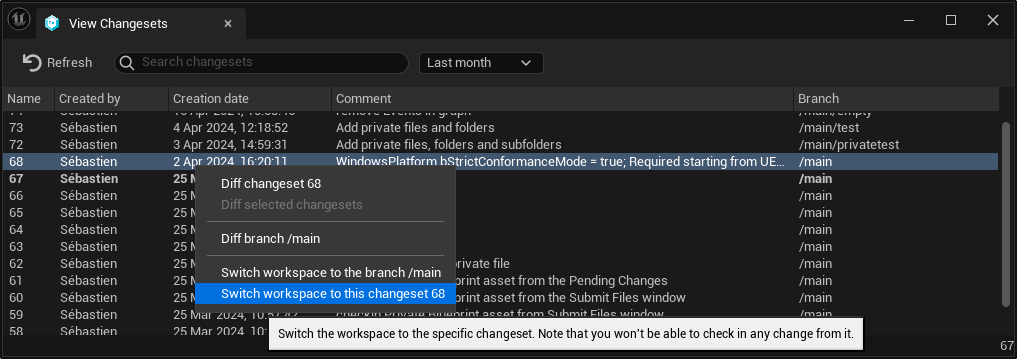
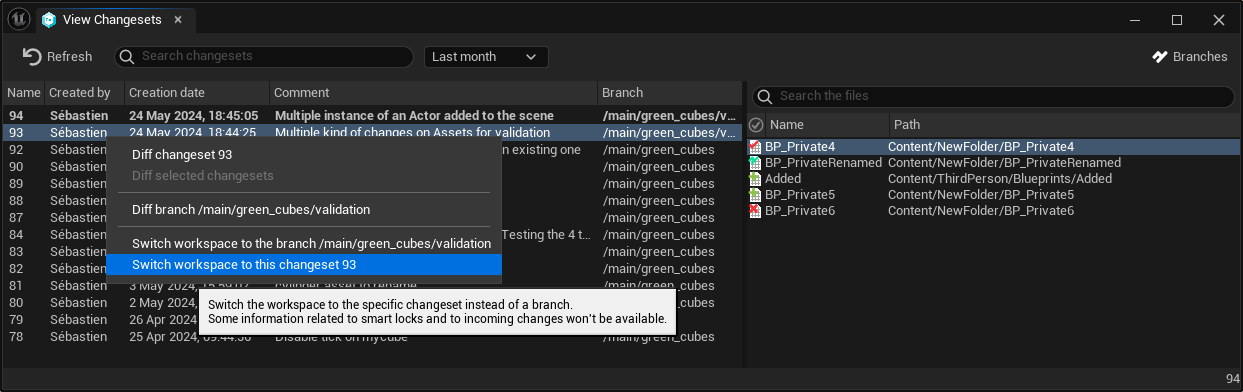
Update Readme with new screenshots and a quick description

diff --git a/README.md b/README.md
@@ -446,8 +446,11 @@ The plugin has a new dedicated window to display the history of Changesets, to s
 
 To open it, use the "View Changesets" menu item in the Revision Control menu.
 
-View history of Changesets window:
+View history of Changesets window, with a context menu to interact with these changesets:
 ![View Changesets window](Screenshots/UEPlasticPlugin-Changesets-Menu.png)
+
+It displays the list of files changed in the selected changeset and 
+![Files in Changeset context menu](Screenshots/UEPlasticPlugin-ChangesetsFiles-Menu.png)
 
 #### SmartLocks
 
